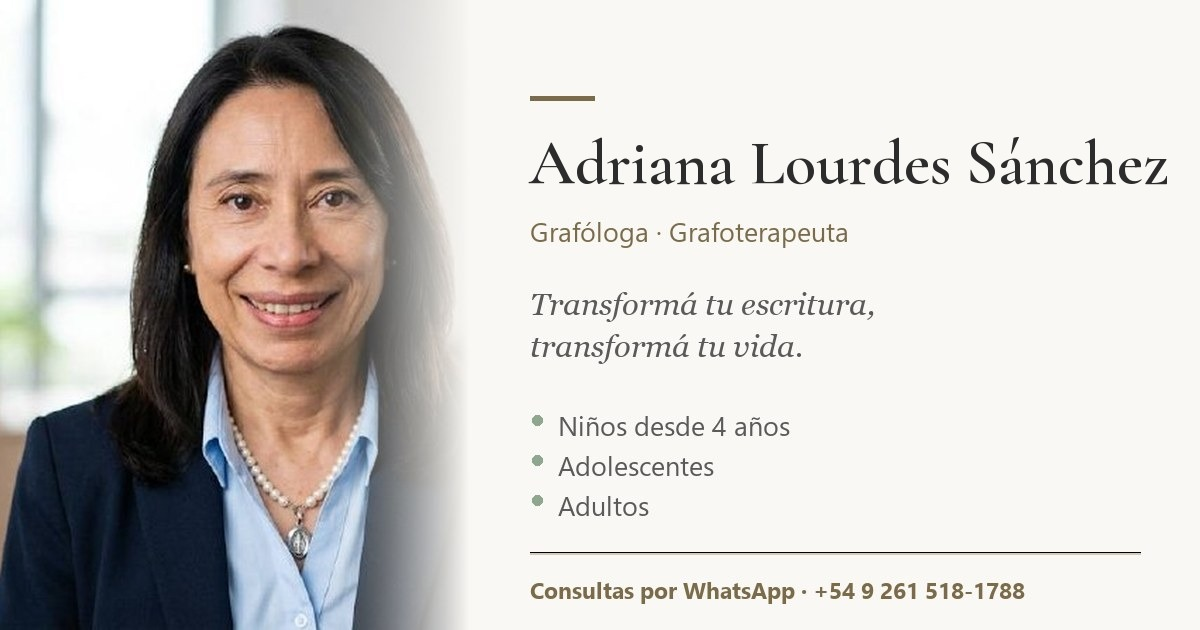
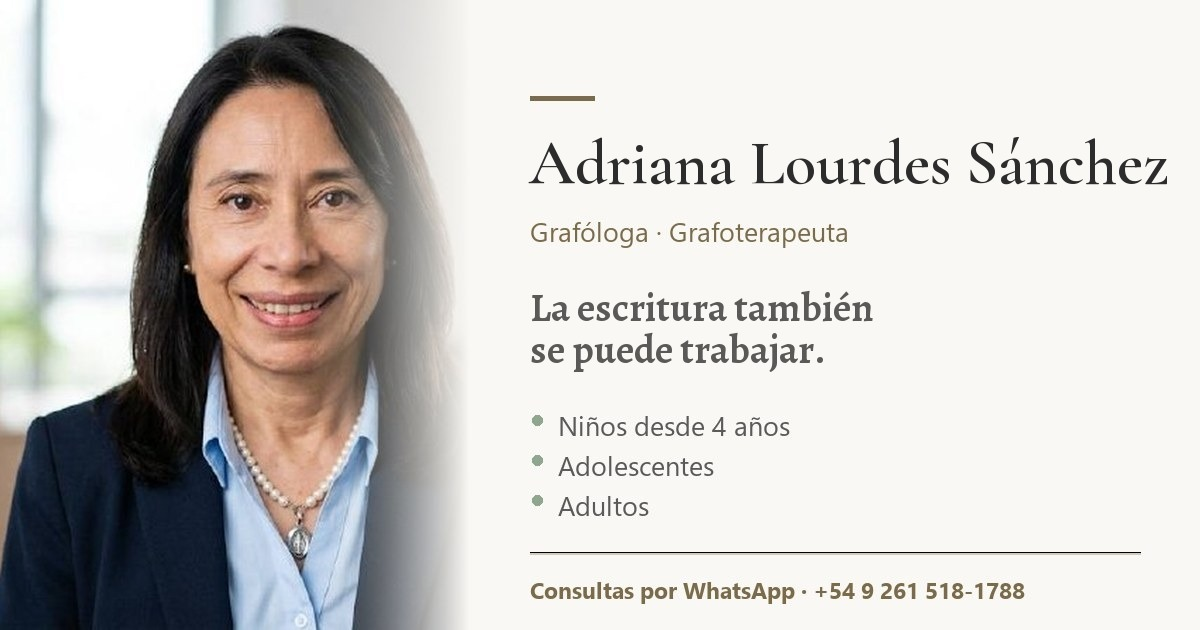
feat: ordenar la lectura y suavizar el cierre

Changed region(s): [[0.4317, 0.4524, 0.74, 0.5127], [0.4317, 0.5429, 0.6783, 0.6032]]

diff --git a/index.html b/index.html
@@ -6,7 +6,7 @@
   <title>de puño y letra · Adriana Lourdes Sánchez</title>
   <meta name="description" content="de puño y letra — grafoterapia y reeducación terapéutica de la escritura con Adriana Lourdes Sánchez. Sesiones personalizadas para niños, adolescentes y adultos.">
   <meta property="og:title" content="Adriana Lourdes Sánchez · Grafóloga y Grafoterapeuta">
-  <meta property="og:description" content="Transformá tu escritura, transformá tu vida. Sesiones personalizadas para niños desde 4 años, adolescentes y adultos.">
+  <meta property="og:description" content="Análisis de la escritura y ejercicios gráficos personalizados para niños desde 4 años, adolescentes y adultos.">
   <meta property="og:type" content="website">
   <!-- Imagen que se ve al compartir el link (WhatsApp, Facebook, etc.).
        Sin esto el mensaje sale como texto pelado y parece poco serio.
@@ -23,7 +23,7 @@
   <!-- Twitter/X usa sus propias etiquetas; summary_large_image = foto grande. -->
   <meta name="twitter:card" content="summary_large_image">
   <meta name="twitter:title" content="Adriana Lourdes Sánchez · Grafóloga y Grafoterapeuta">
-  <meta name="twitter:description" content="Transformá tu escritura, transformá tu vida. Sesiones para niños, adolescentes y adultos.">
+  <meta name="twitter:description" content="Análisis de la escritura y ejercicios gráficos para niños, adolescentes y adultos.">
   <meta name="twitter:image" content="https://xn--depuoyletra-4db.online/og-image.jpg">
   <script type="application/ld+json">
   {
@@ -126,20 +126,31 @@
 
     /* ANIMATIONS */
     @keyframes fadeInUp {
-      from { opacity: 0; transform: translateY(30px); }
+      from { opacity: 0; transform: translateY(22px); }
       to { opacity: 1; transform: translateY(0); }
     }
     @keyframes fadeIn {
       from { opacity: 0; }
       to { opacity: 1; }
     }
+    @keyframes washIn {
+      from { opacity: 0; transform: rotate(-10deg) scale(.72); }
+      to { opacity: .75; transform: rotate(-7deg) scale(1); }
+    }
+    @keyframes handwritingIn {
+      from { opacity: 0; transform: rotate(-12deg) translateX(60px); }
+      to { opacity: .10; transform: rotate(-9deg) translateX(0); }
+    }
 
-    .reveal { transition: opacity 0.8s ease, transform 0.8s ease; }
-    .js .reveal { opacity: 0; transform: translateY(30px); }
-    .js .reveal.visible { opacity: 1; transform: translateY(0); }
-    .reveal-delay-1 { transition-delay: 0.15s; }
-    .reveal-delay-2 { transition-delay: 0.3s; }
-    .reveal-delay-3 { transition-delay: 0.45s; }
+    .reveal {
+      transition: opacity .7s ease, clip-path .9s cubic-bezier(.22,.61,.36,1), filter .8s ease;
+      clip-path: inset(0);
+    }
+    .js .reveal { opacity: 0; clip-path: inset(0 0 18% 0); filter: blur(2px); }
+    .js .reveal.visible { opacity: 1; clip-path: inset(0); filter: blur(0); }
+    .reveal-delay-1 { transition-delay: 0.12s; }
+    .reveal-delay-2 { transition-delay: 0.24s; }
+    .reveal-delay-3 { transition-delay: 0.36s; }
 
     /* NAV */
     nav {
@@ -200,13 +211,13 @@
       left: -120px; top: 18%; transform: rotate(-7deg);
       background:
         radial-gradient(ellipse at center, rgba(188,143,104,0.25) 0 38%, transparent 70%);
-      filter: blur(3px); opacity: .75;
+      filter: blur(3px); opacity: .75; animation: washIn 1.4s ease .15s both;
     }
     .hero::after {
       content: 'de puño y letra'; position: absolute; right: 4%; top: 28%;
       font-family: var(--script); font-size: clamp(5rem, 10vw, 9rem);
       color: var(--accent); opacity: .10; transform: rotate(-9deg);
-      white-space: nowrap; pointer-events: none;
+      white-space: nowrap; pointer-events: none; animation: handwritingIn 1.4s ease .55s both;
     }
     .hero-content {
       width: min(1200px, 100%); max-width: 1200px; margin: 0 auto;
@@ -449,16 +460,22 @@
 
     /* CONTACTO */
     #contacto {
-      background-color: #302a22;
+      background-color: #d9c9af;
       background-image:
-        radial-gradient(ellipse at 20% 20%, rgba(141,91,58,.30), transparent 34%),
-        repeating-linear-gradient(4deg, transparent 0 9px, rgba(255,255,255,.018) 10px, transparent 11px);
-      color: var(--white); text-align: center; position: relative; overflow: hidden;
-      border-top: 5px solid rgba(141,91,58,.45);
+        radial-gradient(ellipse at 18% 18%, rgba(176,112,72,.24), transparent 36%),
+        radial-gradient(ellipse at 88% 76%, rgba(112,131,108,.22), transparent 34%),
+        repeating-linear-gradient(4deg, transparent 0 9px, rgba(69,50,34,.022) 10px, transparent 11px);
+      color: var(--text); text-align: center; position: relative; overflow: hidden;
+      border-top: 5px solid rgba(141,91,58,.38);
     }
-    #contacto .section-label { color: var(--accent-light); }
-    #contacto .section-title { color: var(--white); }
-    #contacto .section-subtitle { color: rgba(255,255,255,0.65); margin: 0 auto 40px; }
+    #contacto::after {
+      content: 'Escribime'; position: absolute; right: 5%; bottom: -18px;
+      font-family: var(--script); font-size: clamp(5rem, 10vw, 9rem);
+      color: rgba(104,64,41,.09); transform: rotate(-6deg); pointer-events: none;
+    }
+    #contacto .section-label { color: var(--accent-dark); }
+    #contacto .section-title { color: var(--text); }
+    #contacto .section-subtitle { color: var(--text-soft); margin: 0 auto 40px; }
     .contact-cta { position: relative; z-index: 1; }
     .whatsapp-btn {
       display: inline-flex; align-items: center; gap: 12px;
@@ -471,11 +488,12 @@
       background: var(--wa-dark);
     }
     .whatsapp-btn svg { width: 22px; height: 22px; fill: currentColor; }
-    .contact-info { margin-top: 28px; font-size: 0.85rem; color: rgba(255,255,255,0.68); }
+    .contact-info { margin-top: 28px; font-size: 0.85rem; color: var(--text-soft); }
 
     /* FOOTER */
     footer {
-      background: #1e1e1c; padding: 28px 24px; text-align: center;
+      background: #685442; padding: 30px 24px; text-align: center;
+      border-top: 1px solid rgba(255,255,255,.14);
     }
     .footer-disclaimer {
       max-width: 600px; margin: 0 auto 12px; font-size: 0.75rem;
@@ -546,7 +564,7 @@
         animation-iteration-count: 1 !important;
         transition-duration: 0.01ms !important;
       }
-      .js .reveal { opacity: 1; transform: none; }
+      .js .reveal { opacity: 1; transform: none; clip-path: inset(0); filter: none; }
     }
   </style>
 </head>
@@ -578,8 +596,8 @@
   <section class="hero" id="inicio">
     <div class="hero-content">
       <div class="hero-badge">Adriana Lourdes Sánchez · Reeducación Gráfica</div>
-      <h1>Transformá tu <em>escritura</em>,<br>transformá tu <em>vida</em></h1>
-      <p class="hero-sub">A través de ejercicios dirigidos, la grafoterapia ayuda a mejorar hábitos, fortalecer la autoconfianza y acompañar tu bienestar emocional.</p>
+      <h1>La escritura también<br><em>se puede trabajar</em></h1>
+      <p class="hero-sub">Observo cómo escribís y preparo ejercicios gráficos para trabajar, de manera gradual, los hábitos que quieras revisar.</p>
       <div class="hero-actions">
         <a href="#contacto" class="btn btn-primary">
           <svg aria-hidden="true" viewBox="0 0 24 24" fill="none" stroke="currentColor" stroke-width="2" stroke-linecap="round" stroke-linejoin="round"><path d="M21 15a2 2 0 0 1-2 2H7l-4 4V5a2 2 0 0 1 2-2h14a2 2 0 0 1 2 2z"/></svg>
@@ -598,17 +616,17 @@
     <div class="container">
       <div class="split">
         <div class="split-text">
-          <span class="section-label reveal">Qué es la grafoterapia</span>
-          <h2 class="section-title reveal reveal-delay-1">Tu letra refleja tu mundo interior</h2>
-          <p class="section-subtitle reveal reveal-delay-2">Al transformar conscientemente tu escritura, podés generar cambios reales en tu forma de sentir y actuar. Es una técnica no invasiva, sin efectos nocivos, que complementa otros tratamientos.</p>
+          <span class="section-label reveal">01 · Punto de partida</span>
+          <h2 class="section-title reveal reveal-delay-1">Qué observo en una escritura</h2>
+          <p class="section-subtitle reveal reveal-delay-2">La grafología permite leer características de la escritura. Con esa observación preparo una práctica gráfica personal, sin fórmulas iguales para todos.</p>
           <ul class="feature-list">
             <li class="reveal reveal-delay-2">
               <div class="feature-icon">
                 <svg aria-hidden="true" viewBox="0 0 24 24" stroke-width="2" stroke-linecap="round" stroke-linejoin="round"><path d="M2 3h6a4 4 0 0 1 4 4v14a3 3 0 0 0-3-3H2z"/><path d="M22 3h-6a4 4 0 0 0-4 4v14a3 3 0 0 1 3-3h7z"/></svg>
               </div>
               <div class="feature-text">
-                <h3>Base grafológica profesional</h3>
-                <p>La grafología analiza; la grafoterapia interviene con formación oficial.</p>
+                <h3>Primero, el análisis</h3>
+                <p>La grafología observa la escritura; la grafoterapia parte de esa lectura para definir los ejercicios.</p>
               </div>
             </li>
             <li class="reveal reveal-delay-3">
@@ -616,16 +634,16 @@
                 <svg aria-hidden="true" viewBox="0 0 24 24" stroke-width="2" stroke-linecap="round" stroke-linejoin="round"><path d="M20.24 12.24a6 6 0 0 0-8.49-8.49L5 10.5V19h8.5z"/><line x1="16" y1="8" x2="2" y2="22"/><line x1="17.5" y1="15" x2="9" y2="15"/></svg>
               </div>
               <div class="feature-text">
-                <h3>Personalizada y progresiva</h3>
-                <p>Cada plan es único, adaptado a tu perfil y evolución.</p>
+                <h3>Una práctica por persona</h3>
+                <p>Los ejercicios se ajustan al perfil y a lo que aparece en cada nueva muestra.</p>
               </div>
             </li>
           </ul>
         </div>
         <div class="split-visual reveal">
           <div class="calligraphy-card">
-            <blockquote>La escritura es la pluma del alma</blockquote>
-            <cite>— Aristóteles</cite>
+            <blockquote>Observar. Elegir qué trabajar. Practicar. Volver a observar.</blockquote>
+            <cite>Una secuencia, no una fórmula.</cite>
           </div>
         </div>
       </div>
@@ -636,8 +654,8 @@
   <section id="proceso">
     <div class="container">
       <div class="section-head">
-        <span class="section-label reveal">El proceso</span>
-        <h2 class="section-title reveal reveal-delay-1">Cómo trabajo</h2>
+        <span class="section-label reveal">02 · Orden de trabajo</span>
+        <h2 class="section-title reveal reveal-delay-1">Primero observo. Después, practicamos.</h2>
       </div>
       <div class="steps">
         <div class="step-card reveal">
@@ -668,8 +686,8 @@
   <section id="para-quien">
     <div class="container">
       <div class="section-head">
-        <span class="section-label reveal">Para quién</span>
-        <h2 class="section-title reveal reveal-delay-1">Para cada etapa de la vida</h2>
+        <span class="section-label reveal">03 · Según la edad</span>
+        <h2 class="section-title reveal reveal-delay-1">El trabajo cambia con cada etapa</h2>
       </div>
       <div class="audience-grid">
         <div class="audience-card reveal">
@@ -720,10 +738,10 @@
           <img src="adriana.jpg" alt="Adriana Lourdes Sánchez, grafóloga y grafoterapeuta" width="800" height="447" loading="lazy" decoding="async">
         </div>
         <div class="about-text reveal reveal-delay-1">
-          <span class="section-label">Sobre mí</span>
+          <span class="section-label">04 · Quién acompaña</span>
           <h2 class="about-name">Adriana Lourdes Sánchez</h2>
           <span class="credential">Docente Nivel Primario · Grafóloga · Grafoterapeuta</span>
-          <p>Especialista en infanto juvenil y adultos. Acompaño a personas de todas las edades en su proceso de autoconocimiento y bienestar a través de la reeducación gráfica.</p>
+          <p>Mi formación combina docencia, grafología y grafoterapia. Trabajo con niños, adolescentes y adultos, y preparo los ejercicios a partir del análisis de cada escritura.</p>
           <div class="credential-badges">
             <span class="credential-badge">Docente Nivel Primario</span>
             <span class="credential-badge">Grafóloga · Grafoterapeuta</span>
@@ -741,8 +759,8 @@
   <section id="testimonios">
     <div class="container">
       <div class="section-head">
-        <span class="section-label reveal">Testimonios</span>
-        <h2 class="section-title reveal reveal-delay-1">Experiencias reales</h2>
+        <span class="section-label reveal">05 · En primera persona</span>
+        <h2 class="section-title reveal reveal-delay-1">Lo que cuentan después de practicar</h2>
       </div>
       <div class="testimonials-grid">
         <div class="testimonial-card reveal">
@@ -753,7 +771,7 @@
             <svg aria-hidden="true" viewBox="0 0 24 24"><polygon points="12 2 15.09 8.26 22 9.27 17 14.14 18.18 21.02 12 17.77 5.82 21.02 7 14.14 2 9.27 8.91 8.26 12 2"/></svg>
             <svg aria-hidden="true" viewBox="0 0 24 24"><polygon points="12 2 15.09 8.26 22 9.27 17 14.14 18.18 21.02 12 17.77 5.82 21.02 7 14.14 2 9.27 8.91 8.26 12 2"/></svg>
           </div>
-          <p>"Llevé a mi hijo de 9 años porque le costaba la escritura. En pocos meses mejoró notablemente y lo vi más seguro de sí mismo."</p>
+          <p>"Llevé a mi hijo de 9 años porque le costaba escribir. Con la práctica, su letra se volvió más clara y empezó a escribir con más seguridad."</p>
           <div class="testimonial-author">María L.</div>
           <div class="testimonial-detail">Mamá de paciente de 9 años</div>
         </div>
@@ -765,7 +783,7 @@
             <svg aria-hidden="true" viewBox="0 0 24 24"><polygon points="12 2 15.09 8.26 22 9.27 17 14.14 18.18 21.02 12 17.77 5.82 21.02 7 14.14 2 9.27 8.91 8.26 12 2"/></svg>
             <svg aria-hidden="true" viewBox="0 0 24 24"><polygon points="12 2 15.09 8.26 22 9.27 17 14.14 18.18 21.02 12 17.77 5.82 21.02 7 14.14 2 9.27 8.91 8.26 12 2"/></svg>
           </div>
-          <p>"Fue una experiencia reveladora. Los ejercicios me ayudaron a ser más consciente de mis propios patrones."</p>
+          <p>"Los ejercicios me hicieron prestar atención a movimientos y hábitos de mi escritura que antes me pasaban desapercibidos."</p>
           <div class="testimonial-author">Carolina S.</div>
           <div class="testimonial-detail">Adulta, 34 años</div>
         </div>
@@ -777,7 +795,7 @@
             <svg aria-hidden="true" viewBox="0 0 24 24"><polygon points="12 2 15.09 8.26 22 9.27 17 14.14 18.18 21.02 12 17.77 5.82 21.02 7 14.14 2 9.27 8.91 8.26 12 2"/></svg>
             <svg aria-hidden="true" viewBox="0 0 24 24"><polygon points="12 2 15.09 8.26 22 9.27 17 14.14 18.18 21.02 12 17.77 5.82 21.02 7 14.14 2 9.27 8.91 8.26 12 2"/></svg>
           </div>
-          <p>"Lo que más valoro es el enfoque humano y profesional. Acompañamiento real desde la primera sesión."</p>
+          <p>"Valoré que el trabajo fuera claro y cuidadoso. Desde la primera sesión entendí cómo íbamos a avanzar."</p>
           <div class="testimonial-author">Roberto M.</div>
           <div class="testimonial-detail">Adulto, 48 años</div>
         </div>
@@ -788,9 +806,9 @@
   <!-- CONTACTO -->
   <section id="contacto">
     <div class="container contact-cta">
-      <span class="section-label reveal">Contacto</span>
-      <h2 class="section-title reveal reveal-delay-1">¿Querés saber más?</h2>
-      <p class="section-subtitle reveal reveal-delay-2">Escribime por WhatsApp y agendamos una primera conversación sin compromiso.</p>
+      <span class="section-label reveal">06 · Primer contacto</span>
+      <h2 class="section-title reveal reveal-delay-1">Podemos empezar por una conversación</h2>
+      <p class="section-subtitle reveal reveal-delay-2">Contame por WhatsApp para quién es la consulta y qué les gustaría trabajar.</p>
       <div class="reveal reveal-delay-3">
         <a href="https://wa.me/5492615181788?text=Hola%2C%20me%20interesa%20saber%20m%C3%A1s%20sobre%20la%20grafoterapia" class="whatsapp-btn" target="_blank" rel="noopener">
           <svg aria-hidden="true" viewBox="0 0 24 24"><path d="M17.472 14.382c-.297-.149-1.758-.867-2.03-.967-.273-.099-.471-.148-.67.15-.197.297-.767.966-.94 1.164-.173.199-.347.223-.644.075-.297-.15-1.255-.463-2.39-1.475-.883-.788-1.48-1.761-1.653-2.059-.173-.297-.018-.458.13-.606.134-.133.298-.347.446-.52.149-.174.198-.298.298-.497.099-.198.05-.371-.025-.52-.075-.149-.669-1.612-.916-2.207-.242-.579-.487-.5-.669-.51-.173-.008-.371-.01-.57-.01-.198 0-.52.074-.792.372-.272.297-1.04 1.016-1.04 2.479 0 1.462 1.065 2.875 1.213 3.074.149.198 2.096 3.2 5.077 4.487.709.306 1.262.489 1.694.625.712.227 1.36.195 1.871.118.571-.085 1.758-.719 2.006-1.413.248-.694.248-1.289.173-1.413-.074-.124-.272-.198-.57-.347m-5.421 7.403h-.004a9.87 9.87 0 01-5.031-1.378l-.361-.214-3.741.982.998-3.648-.235-.374a9.86 9.86 0 01-1.51-5.26c.001-5.45 4.436-9.884 9.888-9.884 2.64 0 5.122 1.03 6.988 2.898a9.825 9.825 0 012.893 6.994c-.003 5.45-4.437 9.884-9.885 9.884m8.413-18.297A11.815 11.815 0 0012.05 0C5.495 0 .16 5.335.157 11.892c0 2.096.547 4.142 1.588 5.945L.057 24l6.305-1.654a11.882 11.882 0 005.683 1.448h.005c6.554 0 11.89-5.335 11.893-11.893a11.821 11.821 0 00-3.48-8.413z"/></svg>
